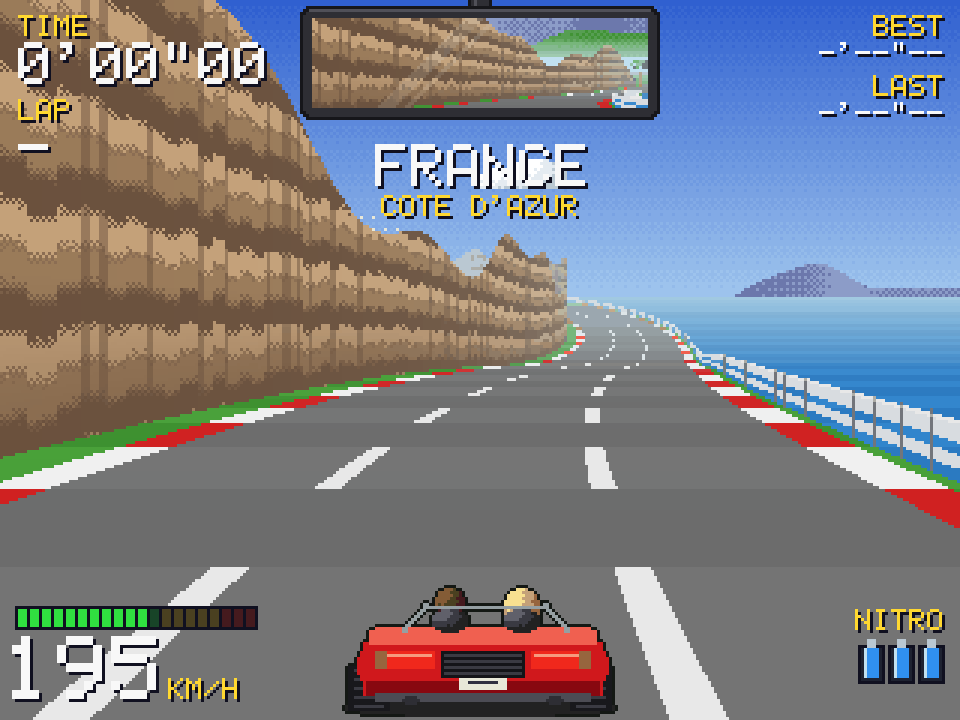
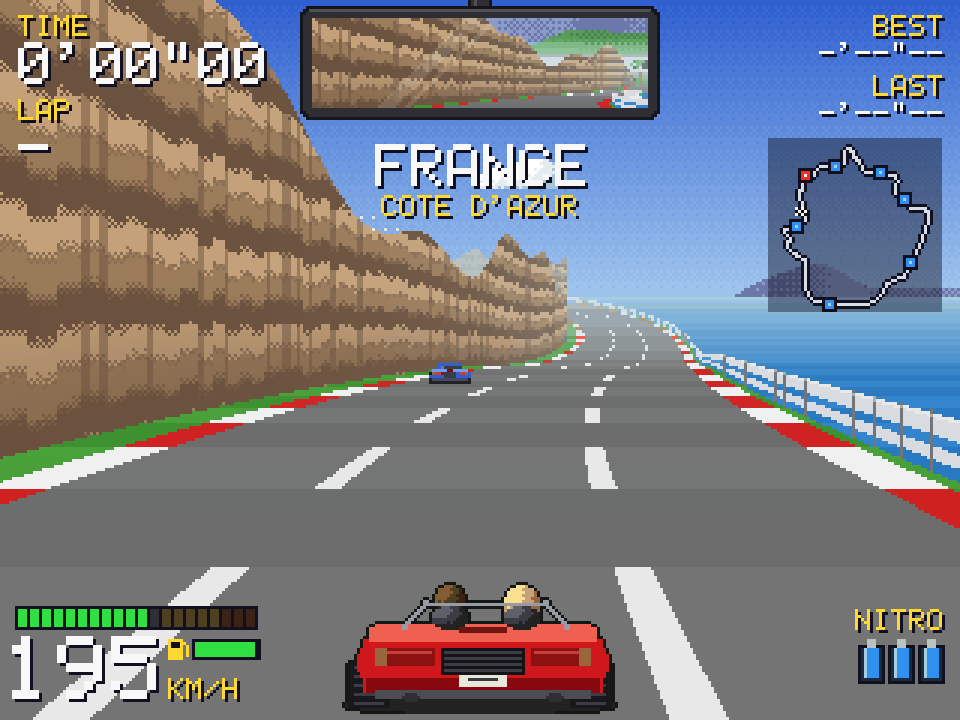
Document brake lights, crashes, the mini map and fuel
README: features and headless options; TODO: this round's design and
verification; regenerated screenshots.

diff --git a/TODO.md b/TODO.md
@@ -6,10 +6,11 @@ Base: `fc65858 Fix rendering: correct projection, pixel format, colors &
 sprites` (upstream master). Work line: kurvenrausch-003.x, bundles are
 cumulative from `fc65858`.
 
-Latest bundle: `kurvenrausch-005.1-horn-wave-nitro-fc65858.bundle`, tip is
-the "Document horn, close passes and nitro" commit on `master`. 004.1 added
-the rear-view mirror on top of 003.1 (`fe8e0df`); 005.1 adds horn, close-pass
-wave and boost, and nitro on top of 004.1.
+Latest bundle: `kurvenrausch-006.1-brakes-crash-map-fuel-fc65858.bundle`, tip
+is the "Document brake lights, crashes, the mini map and fuel" commit on
+`master`. 004.1 added the rear-view mirror on top of 003.1 (`fe8e0df`); 005.1
+horn, close-pass wave and boost, and nitro; 006.1 brake lights, the crash
+animation, the mini map, fuel and gas stations.
 
 History: 001.1 was built on `d66c91a`; upstream then added a rename and its own
 rendering fix, so the work was rebased onto `fc65858` (002.1). 003.1 adds the
@@ -19,6 +20,62 @@ Upstream master has since been fast-forwarded to `64fda32`, the tip of 002.1, so
 from `fc65858` regardless, as the rules require.
 The rebase notes: upstream's rename is kept, its rendering fix is superseded by
 the road/framebuffer rewrite, `Color::to_u32()` became `Color::argb()`.
+
+## Round 5 (006.1): brake lights, crash animation, mini map, gas stations, done
+
+Requested: working brake lights; a crash animation when going off course at
+high speed; a mini map; a gas station.
+
+Design decisions:
+
+- Brake lights: lit variants of every rear car sprite (white-hot lamps, light
+  spilling onto the bodywork, a third brake light; unlit lamps darker so the
+  difference shows even on the red car). The player's light up with the brake
+  pedal. Traffic now really brakes: behind something slower in its lane that
+  it can't pass (another car, or the player) it follows (`follow_speed`,
+  tested) instead of driving through it, and its brake lights show when it
+  slows by more than 2% of top speed (no flicker while following steadily).
+- Crash: hitting solid scenery off the road at 40% of top speed or more
+  starts it (slower is the old knock). `crash_pose(t, side)` (pure, tested)
+  drives it: two rolls through three decaying hops with a slide outwards
+  (1.5 s), at rest (0.5 s), then put back in the outermost lane on that side
+  while blinking (0.8 s). Dust puffs and debris are screen-space particles; a
+  thump on each touchdown. Input is ignored meanwhile, nitro is cut. The car
+  sprite is rotated with the new `Framebuffer::blit_rotated` via
+  `RoadSprite::angle`. The trigger is the collision, as in OutRun: running
+  onto open ground still just slows the car. Ask if leaving the road at speed
+  should crash on its own too.
+- Mini map: `track_map()` (tested). A pseudo-3D track isn't a geometric loop
+  (the bends add up to 0.58 turns here) and taken literally its hard bends
+  turn 170 degrees and cross over. So bends are damped (x0.6), the missing
+  turning is spread evenly so the lap makes one full turn, and the remaining
+  gap is spread along the path. Top right, under the lap times.
+- Fuel: `Fuel` (tested) burns with the engine load, a tank lasts 100 s at
+  full load (about 1.25 laps in practice). Below 3% the engine sputters, empty
+  it dies (no drive, engine sound off, no nitro); standing empty for 3 s the
+  driver pours in a 15% spare can. HUD gauge bottom left, blinking red when
+  low. Not refilled on laps.
+- Gas stations: `TrackBuilder::gas_station()`: a flat straight with a paved
+  forecourt on the right (`Segment::forecourt`, out to 2.3 half-widths,
+  tapering in and out), a sign before it, two pumps and the shop. One per zone
+  (tested), placed off the cliff/rail runs; decor keeps clear. No off-road
+  slowdown or gravel on the forecourt. Below 8% of top speed on the full-width
+  forecourt the tank fills in 4 s, with a pump hum and gurgle and a chime when
+  full. The route is 336 segments longer for it, so zone positions moved.
+- Headless: `--fuel L` starts with L of a tank, `--steer-from N` starts the
+  held steering at step N (for crashes). The autopilot pulls in when below
+  45% with a station within 120 segments.
+
+Verified: builds warning-free; unit tests (follow speed, fuel, crash pose and
+touchdowns, rotated blits, the map's closure and orientation, stations, the
+engine-off, pump and chime sounds); ASan+UBSan on full laps (with refuelling,
+horn, nitro, running dry, crashes in several zones) and the live loop; TSan on
+the live loop and on a harness switching engine/pump and triggering chimes
+from another thread; screenshots of brake lights, a full crash sequence, the
+map, stations in every climate, refuelling and running dry.
+Not verified: interactive feel (crash threshold, fuel range, how easy pulling
+in is: steering is speed-scaled, so it is easier to move over before slowing
+right down), sounds on real speakers.
 
 ## Round 4 (005.1): horn, close-pass wave and boost, nitro, done
 

diff --git a/README.md b/README.md
@@ -39,8 +39,9 @@ weather and road markings, fading smoothly into one another:
   scrolling at different rates through bends
 - Road markings per region: dashed white lines in Europe, double yellow centre
   line and white edge lines in the USA
-- AI traffic that changes lanes to pass, blinking its indicators; rear-ending
-  a car slows you down
+- AI traffic that changes lanes to pass, blinking its indicators, or brakes
+  behind slower cars (and you) when it can't; rear-ending a car slows you down
+- Working brake lights, on your car and on the traffic
 - **Horn**: cars ahead in your line signal and pull over to let you through
 - **Close passes**: squeeze past a car and your driver (or passenger, on the
   right) waves, with a whoosh and a little boost beyond top speed
@@ -49,7 +50,15 @@ weather and road markings, fading smoothly into one another:
 - **Rear-view mirror** at the top of the screen: the road behind, drawn by the
   same renderer looking back, with the fronts of the cars you have passed
 - Arcade handling with analog steering and pedals; centrifugal force, off-road
-  slowdown, crashes into roadside objects
+  slowdown; hit something off the road at speed and the car **tumbles** over
+  in a cloud of dust and debris before it is put back on the road
+- **Fuel and gas stations**: the tank drains with the engine's load (about a
+  lap and a quarter at full throttle); every zone has a gas station with a
+  forecourt to pull onto, where the tank fills up while you stand by the
+  pumps. Run dry and the engine sputters and dies; stranded, the driver pours
+  in a spare can after a few seconds
+- **Mini map** of the lap with your position, the start line and the gas
+  stations
 - **Synthesised sound**: a six-cylinder engine that follows revs and load, with
   gear changes, tyre squeal, gravel, wind, rain, barrier scraping and crashes;
   `M` mutes
@@ -118,10 +127,12 @@ made and how rendering changes are checked without a display:
 ./build/kurvenrausch --screenshot shot.bmp --steer 1     # hold the steering
 ./build/kurvenrausch --screenshot shot.bmp --frames 600 --nitro 540   # nitro at step 540
 ./build/kurvenrausch --screenshot shot.bmp --frames 3600 --horn       # honk all the way
+./build/kurvenrausch --screenshot shot.bmp --frames 2400 --fuel 0.3   # low fuel: pulls in
+./build/kurvenrausch --screenshot shot.bmp --frames 640 --steer -1 --steer-from 600  # crash
 ```
 
-It simulates the given number of 60 Hz steps with a simple autopilot (or a held
-steering angle), renders one frame and writes it as a BMP; `--wav` also writes
+It simulates the given number of 60 Hz steps with a simple autopilot that also
+pulls in at gas stations when low on fuel (or a held steering angle), renders one frame and writes it as a BMP; `--wav` also writes
 the sound of the run. `tools/make_screenshots.py` (needs Pillow) regenerates
 the README images.
 
@@ -146,7 +157,8 @@ include/
   display.hpp      SDL window presentation, BMP export
   input.hpp        keyboard and gamepad input (analog), rumble
   drivetrain.hpp   gears and revs, shared by the HUD and the sound
-  driving.hpp      nitro, overspeed, the pass boost, yielding to the horn
+  driving.hpp      nitro, fuel, overspeed, the pass boost, yielding to the
+                   horn, following traffic, the crash animation
   synth.hpp        sound synthesis (pure DSP, no SDL), WAV export
   audio.hpp        SDL audio device playing the synth
   game.hpp         game loop, physics, traffic, lap timing
